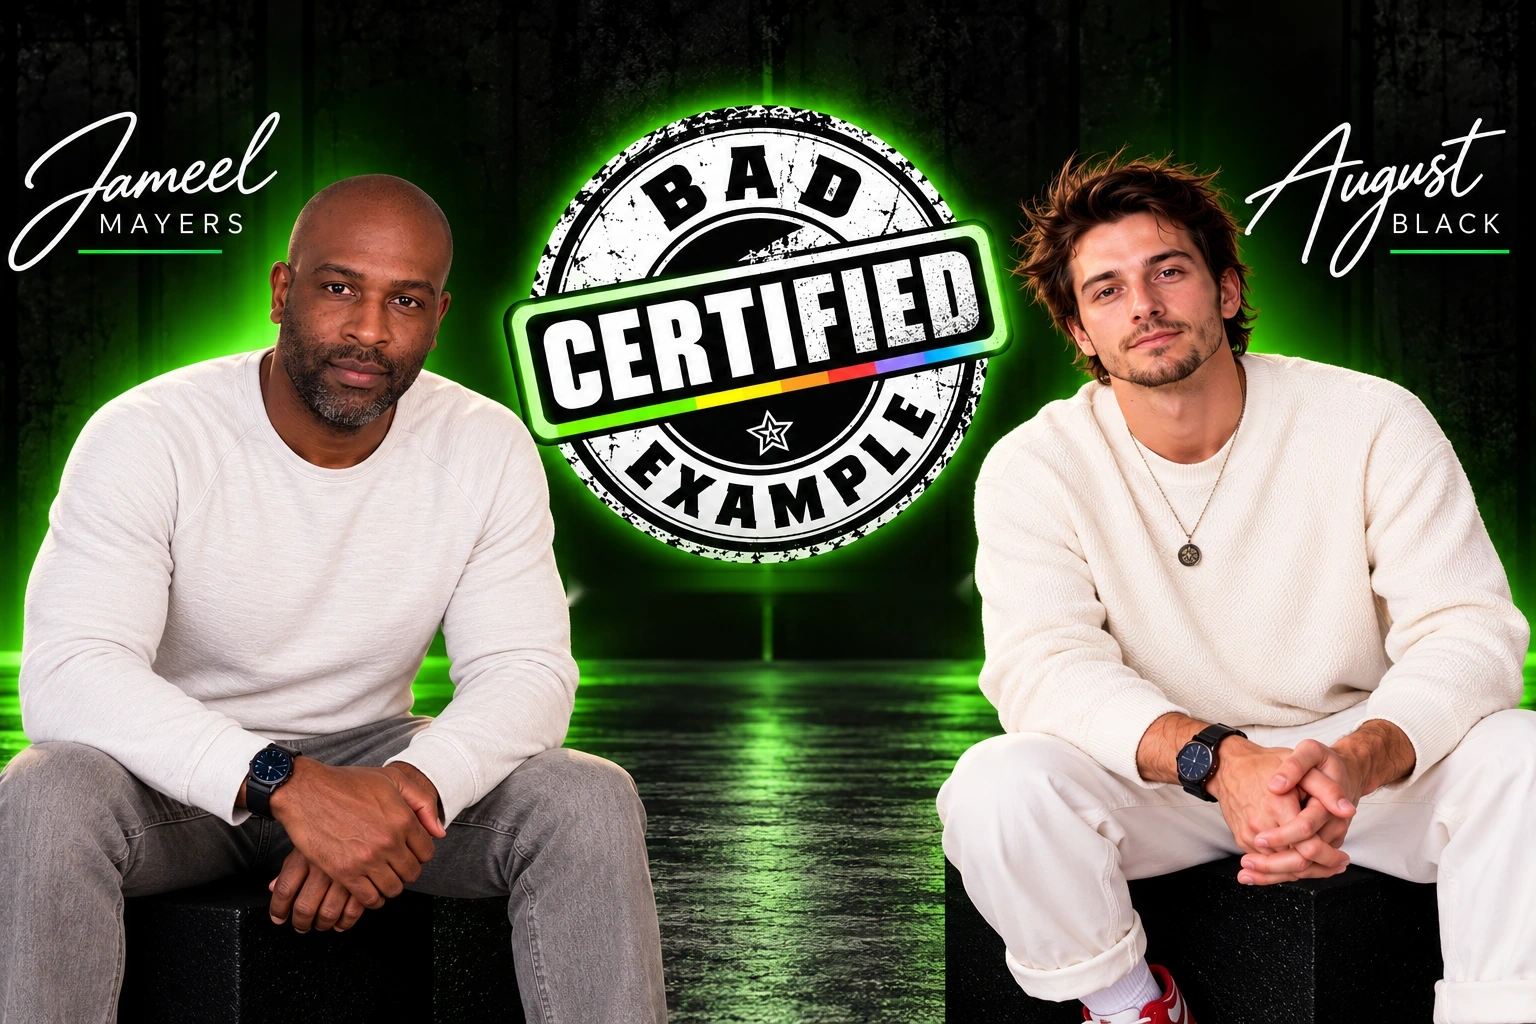
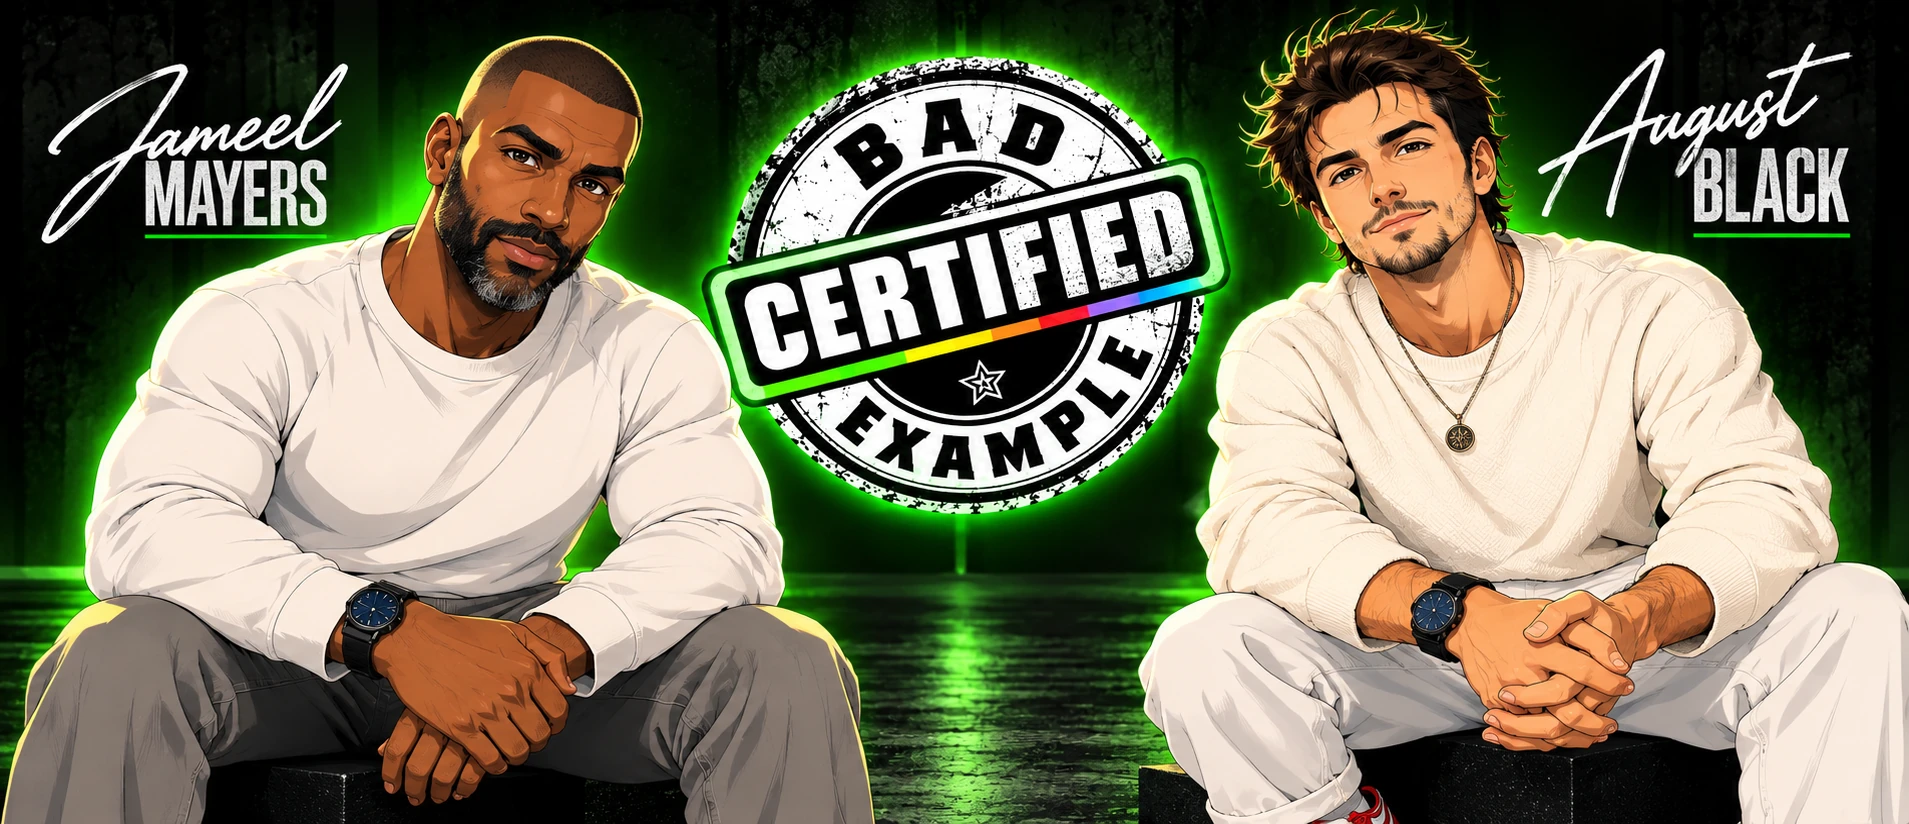
Add files via upload

diff --git a/index.html b/index.html
@@ -1,6 +1,6 @@
 <!doctype html><html lang="en"><head><meta charset="utf-8"><meta name="viewport" content="width=device-width,initial-scale=1"><meta name="theme-color" content="#080b09"><meta name="description" content="Certified Bad Example — Jameel Mayers and August Black react to real stories and questionable decisions."><title>Certified Bad Example | Podcast</title><link rel="stylesheet" href="styles.css"><link rel="icon" type="image/png" sizes="32x32" href="assets/favicon-32.png?v=14"><link rel="apple-touch-icon" href="assets/favicon-180.png?v=14"></head><body>
 <header class="site-header"><a href="index.html#home" class="brand" aria-label="Certified Bad Example home"><img src="assets/logo.png" alt="Certified Bad Example logo"></a><button class="menu-toggle" aria-label="Toggle navigation" aria-controls="nav" aria-expanded="false">☰</button><nav id="nav" aria-label="Main navigation"><a href="index.html#home">Home</a><a href="index.html#latest">Latest Mess</a><div class="nav-group"><button class="nav-drop" type="button" aria-expanded="false" aria-haspopup="true">Episodes <span aria-hidden="true">⌄</span></button><div class="nav-sub" id="season-nav"><a href="index.html#stories">Browse episodes</a><a href="index.html#stories" data-season-nav="1">Season One</a></div></div><div class="nav-group"><button class="nav-drop" type="button" aria-expanded="false" aria-haspopup="true">Hosts <span aria-hidden="true">⌄</span></button><div class="nav-sub"><a class="host-name" href="jameel.html"><span class="first-name">Jameel</span> <span class="last-name">Mayers</span></a><a class="host-name" href="august.html"><span class="first-name">August</span> <span class="last-name">Black</span></a></div></div><a href="support.html">Support</a></nav></header>
-<main id="home"><section class="hero reveal"><img class="hero-people" src="assets/hero-banner.webp?v=17" alt="Jameel Mayers and August Black with the original Certified Bad Example logo"></section>
+<main id="home"><section class="hero reveal"><img class="hero-people" src="assets/hero-banner.webp?v=21" alt="Anime-style illustrated banner featuring Jameel Mayers and August Black alongside the Certified Bad Example logo"></section>
 <section class="home-intro reveal"><h2>BAD DECISIONS. BIG OPINIONS. <em>ZERO FILTER.</em></h2><p>The internet is full of people making questionable choices, and we’re here to talk about them. Join Jameel Mayers and August Black as they unpack outrageous viral stories, spectacular lapses in judgment, and the occasional example of humanity getting it right. It’s unscripted, unapologetic, and packed with laughs, perspective, and just enough common sense to make you wonder where everyone else’s went.</p><p><strong>Because sometimes the best lessons come from the worst examples.</strong></p></section><section class="social-band reveal"><p>FIND YOUR FAVORITE WAY TO FOLLOW THE MESS</p><div class="socials"><a data-link="youtube" aria-label="YouTube" target="_blank" rel="noopener"><svg class="brand-icon" aria-hidden="true" viewBox="0 0 24 24"><use href="assets/icons.svg#youtube"></use></svg><span>YouTube</span></a><a data-link="apple" aria-label="Apple Podcasts" target="_blank" rel="noopener"><svg class="brand-icon" aria-hidden="true" viewBox="0 0 24 24"><use href="assets/icons.svg#apple"></use></svg><span>Apple</span></a><a data-link="spotify" aria-label="Spotify" target="_blank" rel="noopener"><svg class="brand-icon" aria-hidden="true" viewBox="0 0 24 24"><use href="assets/icons.svg#spotify"></use></svg><span>Spotify</span></a><a data-link="instagram" aria-label="Instagram" target="_blank" rel="noopener"><svg class="brand-icon" aria-hidden="true" viewBox="0 0 24 24"><use href="assets/icons.svg#instagram"></use></svg><span>Instagram</span></a></div></section>
 <section class="section reveal" id="latest"><p class="eyebrow">PRESS PLAY</p><h1>THE LATEST <em>MESS.</em></h1><div class="video-shell" id="latest-video"><div class="video-placeholder"><strong>GETTING THE LATEST EPISODE…</strong><p><a data-link="youtube" target="_blank" rel="noopener" class="button">WATCH ON YOUTUBE ↗</a></p></div></div><div id="latest-actions" class="latest-actions"><a data-link="youtube" target="_blank" rel="noopener">↗ Pop Out to YouTube</a> <a href="https://www.youtube.com/@CertifiedBadExample_Podcast?sub_confirmation=1" target="_blank" rel="noopener">Subscribe on YouTube ↗</a></div></section>
 <section class="season reveal"><p class="eyebrow">NEXT UP</p><h2>SEASON TWO. <em>COMING DECEMBER 2026.</em></h2><p>More stories. More reactions. More questionable decisions.</p></section>

diff --git a/README.md b/README.md
@@ -29,3 +29,6 @@ those services or modify DNS or Yahoo settings.
 Version 19: Added dedicated mailto contact buttons and visible email addresses on Jameel and August host pages.
 
 Version 20: Redesigned homepage host-name links with dramatically contrasting italic serif first names and uppercase condensed sans-serif surnames, raised beveled button borders and accessible focus/hover/press states. Removed decorative icon between host links.
+
+
+Version 21: Updated homepage hero banner with approved Japanese anime-style artwork. Both WebP and PNG source included. Updated homepage cache version. All other features preserved.
